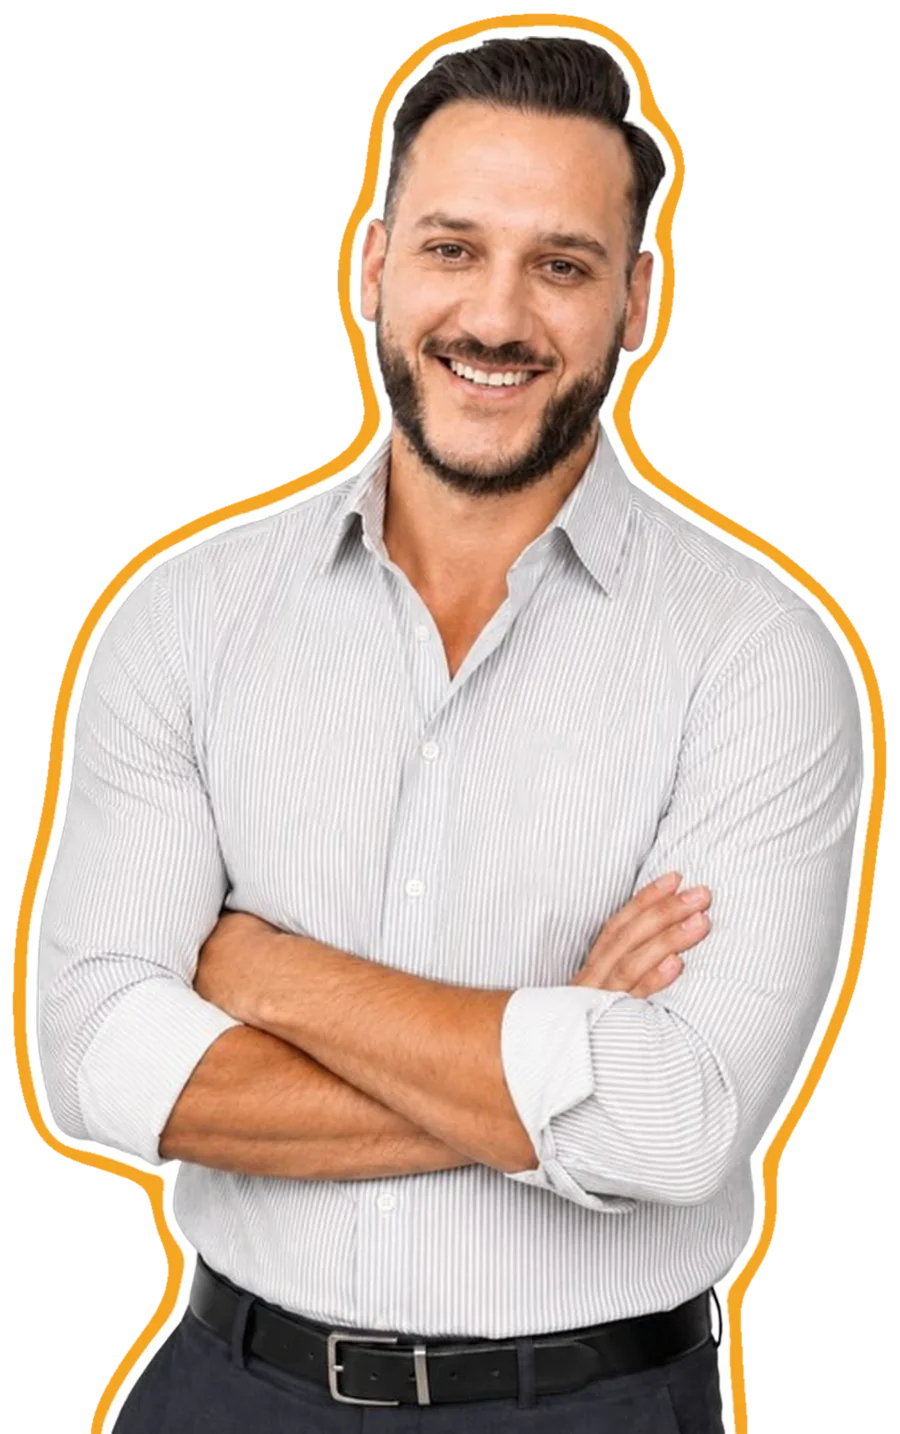
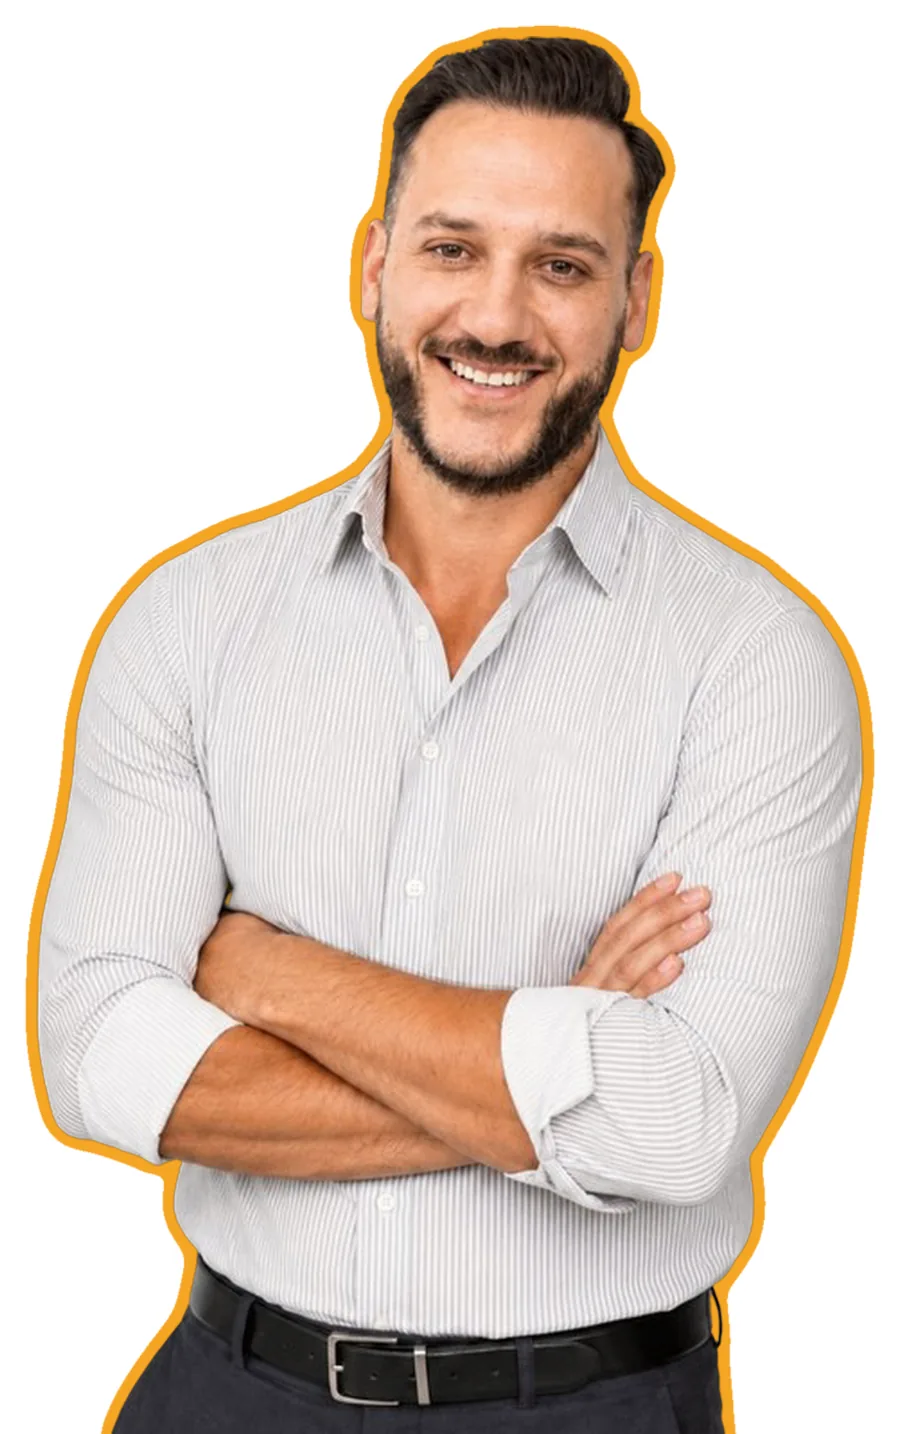
Preise: Ringfarben vertauscht, Schein wie beim Fussmotiv
Dusan: "die farben bei der umrandung verkehrt" und "auch etwas mehr wie
beim portrait im footer".

Ringe getauscht: amber liegt jetzt direkt an der Silhouette, weiss
laeuft aussen herum. Die Geometrie ist unveraendert (je 14 px, Leinwand
978x1558), darum bleibt das Seitenverhaeltnis 0,6277 und im Stylesheet
war dafuer nichts anzufassen. Gegengeprueft per Pixelabgriff auf der
gebauten Datei: aussen 255,255,255, fuenfzehn Pixel weiter innen
244,165,34 - die kleine Abweichung ist die WebP-Kompression.

Der Schein ist jetzt derselbe wie beim Motiv in der Fusszeile, Wert fuer
Wert: zwei weiche weisse Ringe statt der bisherigen amberen. Vorher
stand dort Amber, weil ein weisser Schein den damaligen amberen
AUSSENring zugezogen haette. Mit Weiss aussen ist es umgekehrt.

Gemessen bei 1440 und 1200: Verhaeltnis 0,6277, unten 0,00 px auf der
Sektionskante, 0,00 px Ueberlappung mit Wachstum, mittig auf 0,02 px,
null Ueberlauf im Kasten, kein waagrechter Ueberlauf, null
Konsolenfehler. Angesehen: weisses Band und Schein bleiben als zwei
Lagen unterscheidbar, der amberne Innenring traegt auch gegen das helle
Hemd.

Changed region(s): [[0.0, 0.0, 0.9956, 1.0]]

diff --git a/stil.css b/stil.css
@@ -3496,12 +3496,16 @@ body.langtakt .preis__neu{font-size:1em;opacity:1}
      328 px Anzeigebreite also je 4,7 px. */
   aspect-ratio:978 / 1558;
   background:url("bilder/erst-person-900.webp") bottom center/contain no-repeat;
-  /* Der weisse Schein ist raus: er laege AUSSERHALB des amberen Rings
-     und zoege ihn zu. Die Kante wird jetzt in der Datei gezeichnet,
-     der Schein bleibt weich dahinter — dieselbe Rezeptur wie sonst
-     auf der Seite. */
-  filter:drop-shadow(0 0 34px rgb(245 165 36 / .5))
-         drop-shadow(0 0 90px rgb(245 165 36 / .4));
+  /* 20.09.2026, Dusan: Ringfarben vertauscht (amber innen an der
+     Silhouette, weiss aussen) und "auch etwas mehr wie beim portrait
+     im footer". Der Schein ist deshalb derselbe wie dort, Wert fuer
+     Wert: zwei weiche weisse Ringe, siehe .fuss::after.
+     Vorher stand hier Amber, weil ein weisser Schein den damaligen
+     amberen AUSSENring zugezogen haette. Mit Weiss aussen ist es
+     umgekehrt — der Schein verlaengert den Ring, statt ihn zu
+     schlucken. Wer die Ringfarben wieder dreht, dreht auch das hier. */
+  filter:drop-shadow(0 0 26px rgb(255 255 255 / .55))
+         drop-shadow(0 0 70px rgb(255 255 255 / .35));
   pointer-events:none}
 /* Handschrift und Namenszug sind am 20.09.2026 auf Dusans Ansage
    entfallen ("weg"): die rechte Haelfte traegt nur noch das Motiv.
